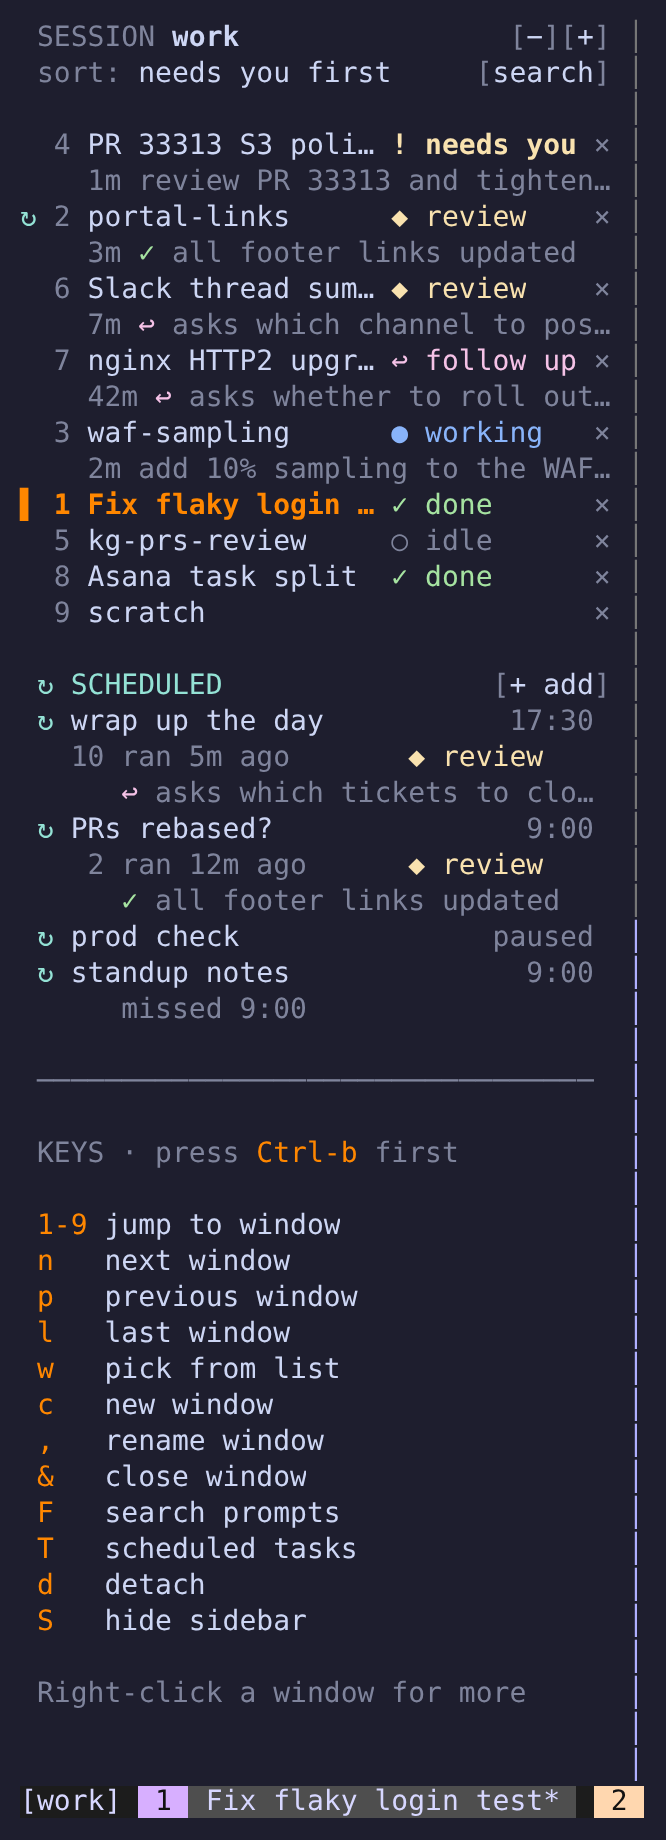
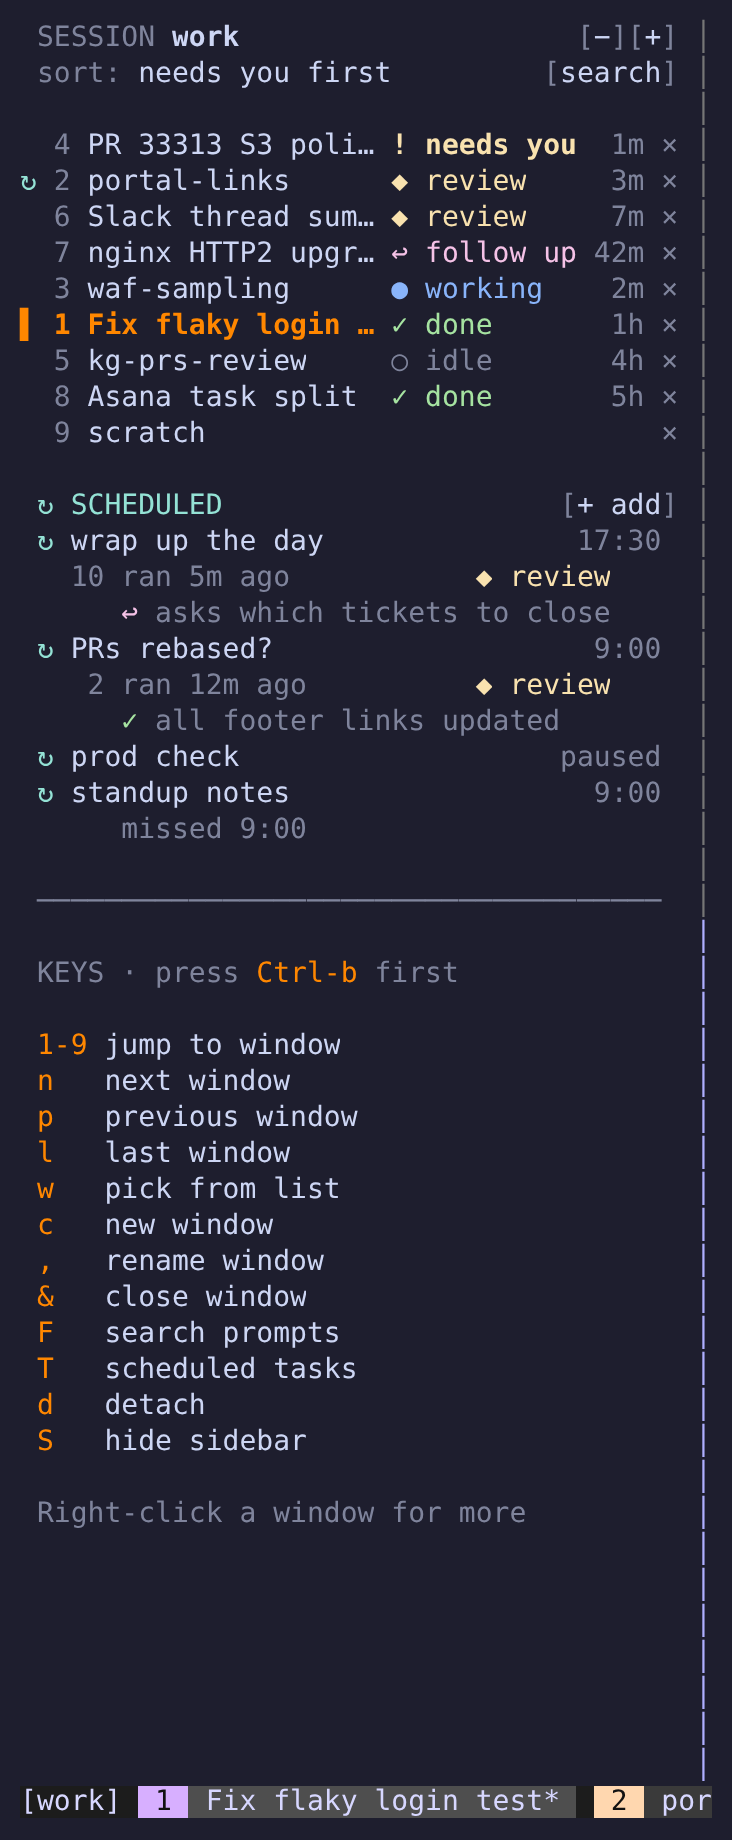
One line per window: name, status and how long ago
The second line under windows that want attention (the AI check's
reason or your last prompt) made the list hard to scan. Each window is
now a single row: number, name, status, how long ago the status
changed, and ×. The reason and last prompt are in search (Ctrl-b F),
and search --list now includes the reason. Scheduled runs keep their
reason line under their task.

The default width goes from 36 to 40 columns so names keep 17
characters next to the new time column; a width you set is kept.

Claude-Session: https://claude.ai/code/session_013KgnzHV6sD8bfHRS8osd48

diff --git a/test/acceptance.py b/test/acceptance.py
@@ -200,7 +200,7 @@ def run(c, work, codez):
     W = int(wait(lambda: tmux("show-options", "-gqv", "@claude_sidebar_width")))
     check("sidebar has the configured width (%d)" % W, fmt(sb1, "#{pane_width}") == str(W))
     if not os.path.exists(WIDTH_FILE):
-        check("default width is 36", W == 36, str(W))
+        check("default width is 40", W == 40, str(W))
     check("sidebar is not the active pane", fmt("work:1", "#{@sidebar}") != "1")
     check("window named from directory, codez- stripped",
           wait(lambda: fmt("work:1", "#{window_name}") == "churn"),
@@ -309,7 +309,7 @@ def run(c, work, codez):
     main = fmt(cur, "#{pane_id}")
     tmux("split-window", "-h", "-t", main)
     other = fmt(cur, "#{pane_id}")
-    c.click(40, 5)
+    c.click(W + 4, 5)  # just right of the sidebar
     check("5. clicks outside the sidebar keep default behaviour",
           wait(lambda: fmt(cur, "#{pane_id}") == main), fmt(cur, "#{pane_id}"))
     tmux("kill-pane", "-t", other)
@@ -521,8 +521,9 @@ def attention_checks(c, W, ec):
           fmt(a, "#{@claude_state}"))
     check("review: prompt stored on one line", fmt(a, "#{@claude_prompt}") == "tidy the README and fix links; ",
           repr(fmt(a, "#{@claude_prompt}")))
-    check("review: sidebar shows the prompt under a working window",
-          wait(lambda: any("tidy the README" in l for l in sidebar_lines()), 3), "\n".join(sidebar_lines()))
+    check("rows: one line per window, with how long ago (no prompt line)",
+          wait(lambda: any(" %s " % an in l and "● working" in l and "<1m ×" in l for l in sidebar_lines()), 3)
+          and not any("tidy the README" in l for l in sidebar_lines()), "\n".join(sidebar_lines()))
     run_hook(pa, "done")
     check("review: Stop in a background window -> review",
           wait(lambda: fmt(a, "#{@claude_state}") == "review", 2.5), fmt(a, "#{@claude_state}"))
@@ -536,8 +537,8 @@ def attention_checks(c, W, ec):
           wait(lambda: fmt(a, "#{@claude_state}") == "done", 3), fmt(a, "#{@claude_state}"))
     check("review: then the sidebar shows ✓ done",
           wait(lambda: any(" %s " % an in l and "✓ done" in l for l in sidebar_lines()), 3))
-    check("review: no prompt line under a done window",
-          wait(lambda: not any("tidy the README" in l for l in sidebar_lines()), 3))
+    check("rows: the age column lines up with the ×",
+          all(l.rstrip().endswith("×") for l in sidebar_lines() if " %s " % an in l))
     tmux("select-window", "-t", cur)
 
     # Finishing in the window you are looking at is done straight away.
@@ -775,9 +776,9 @@ def judge_checks(c, W):
     check("judge: the call is not tracked as a session (no TMUX_PANE)", "TMUX_PANE=unset" in calls)
     check("judge: the call sees the prompt and the reply",
           "fix the flaky login test" in calls and "Want me to open a PR?" in calls)
-    check("judge: review row shows the reason",
-          wait(lambda: any("↩ asks whether to open" in l for l in sidebar_lines()), 3),
-          "\n".join(sidebar_lines()))
+    check("judge: the window list shows status only, not the reason",
+          wait(lambda: any("◆ review" in l and fmt(t, "#{window_name}")[:10] in l for l in sidebar_lines()), 3)
+          and not any("asks whether to open" in l for l in sidebar_lines()), "\n".join(sidebar_lines()))
     tmux("select-window", "-t", t)
     check("judge: after you look, it is 'follow up', not 'done'",
           wait(lambda: any("↩ follow up" in l for l in sidebar_lines()), 3), "\n".join(sidebar_lines()))
@@ -813,8 +814,10 @@ def judge_checks(c, W):
     check("judge: a finished job is wrapped up",
           wait(lambda: fmt(t, "#{@claude_verdict}") == "wrapped", 5) and
           fmt(t, "#{@claude_note}") == "tests pass, nothing pending", fmt(t, "#{@claude_note}"))
-    check("judge: shown as ✓ reason under the review row",
-          wait(lambda: any("✓ tests pass" in l for l in sidebar_lines()), 3), "\n".join(sidebar_lines()))
+    check("judge: search shows the reason",
+          "tests pass, nothing pending" in subprocess.run(
+              ["python3", "-I", os.path.join(HOME, ".tmux", "sidebar", "search.py"), "--list", "flaky"],
+              env=tmux_env(), capture_output=True, text=True).stdout)
 
     # A new prompt clears the verdict; a late answer for the old turn is dropped.
     answer("FOLLOWUP: late answer\n")

diff --git a/sidebar/search.py b/sidebar/search.py
@@ -369,7 +369,8 @@ def main():
     if a and a[0] == "--list":
         now = time.time()
         for w, t, text in results(collect(), " ".join(a[1:])):
-            print("\t".join([w["id"], w["where"], w["state"], age(t, now), w["name"], text]))
+            print("\t".join([w["id"], w["where"], w["state"], age(t, now), w["name"], text,
+                             w.get("note", "")]))
         return
     client = a[0] if a else ""
     os.environ.setdefault("ESCDELAY", "25")

diff --git a/README.md b/README.md
@@ -12,14 +12,15 @@ cadence ("wrap up the day at 5:30", "are my PRs rebased?").
 
 ## What the sidebar shows
 
-<img align="right" width="300" src="docs/sidebar.png" alt="Close-up of the sidebar. Sorted by what needs you: a window that needs you, two windows to review (one finished and wrapped up, one asking which channel to post in), one to follow up, one working, then done and idle windows. Each window that wants attention has a second line with how long ago and the reason or your last prompt. Below, a SCHEDULED section with four tasks: wrap up the day (next 17:30, its last run in window 10 is unread and asks which tickets to close), PRs rebased? (next 9:00, last run reused window 2, which is marked with a circular arrow in the list above), prod check (paused) and standup notes (missed 9:00).">
+<img align="right" width="300" src="docs/sidebar.png" alt="Close-up of the sidebar. Sorted by what needs you: a window that needs you, two windows to review (one finished and wrapped up, one asking which channel to post in), one to follow up, one working, then done and idle windows. Each row shows the window number, name, status and how long ago it changed. Below, a SCHEDULED section with four tasks: wrap up the day (next 17:30, its last run in window 10 is unread and asks which tickets to close), PRs rebased? (next 9:00, last run reused window 2, which is marked with a circular arrow in the list above), prod check (paused) and standup notes (missed 9:00).">
 
 From the top:
 
 - **Session name**, and `[−]` `[+]` to make the sidebar narrower or wider.
 - **Sort order** (click to switch) and `[search]`.
-- **One row per window**: its number, name, Claude Code status and a `×`
-  to close it. The orange bar marks the window you are in.
+- **One row per window**: its number, name, Claude Code status, how long
+  ago that status changed, and a `×` to close it. The orange bar marks the
+  window you are in.
 - **Status**:
   - `! needs you` (bold yellow): a permission prompt or a question dialog.
   - `◆ review` (yellow): Claude finished while you were not looking.
@@ -27,9 +28,8 @@ From the top:
     (Claude asked something, offered options, hit an error, or left steps
     undone).
   - `● working` (blue), `✓ done` (green, wrapped up and seen), `○ idle` (grey).
-- **A second line** under windows that want attention: how long ago, and
-  either why it needs a follow-up (`↩ asks whether to open a PR`), what it
-  finished (`✓ tests pass, PR opened`), or your last prompt.
+- **Why a window needs you** (`↩ asks whether to open a PR`) and your last
+  prompt are in search (`Ctrl-b F`), which keeps the list itself short.
 - **↻ SCHEDULED**: your scheduled tasks, each with its next run, and under
   it the window it last ran in with that run's status (and why, if it needs
   you). Click a task to manage it, a run line to go to that window, or
@@ -117,7 +117,7 @@ From the top:
 - **Click `×`** to close that window. tmux asks `(y/n)` first, then closes the
   window and stops everything running in it (Claude Code, the shell, and their
   child processes).
-- **Width**: 36 columns by default. Click `[−]` or `[+]` at the top of the
+- **Width**: 40 columns by default. Click `[−]` or `[+]` at the top of the
   sidebar to make it 2 columns narrower or wider, or drag its right border.
   The new width applies to every window and is kept after tmux restarts
   (it is saved in `~/.tmux/claude-sidebar-width`).
@@ -224,7 +224,7 @@ closes the sidebars in a running tmux server. The plugins in `~/.tmux/plugins` a
 
 ## How it works
 
-- Each window gets a 36-column pane on the left, marked with the pane option
+- Each window gets a 40-column pane on the left, marked with the pane option
   `@sidebar`. It runs `render.sh`, which reads `tmux list-windows` once a
   second and redraws when something changed.
 - tmux hooks add the pane to new windows, keep it at the chosen width when the
